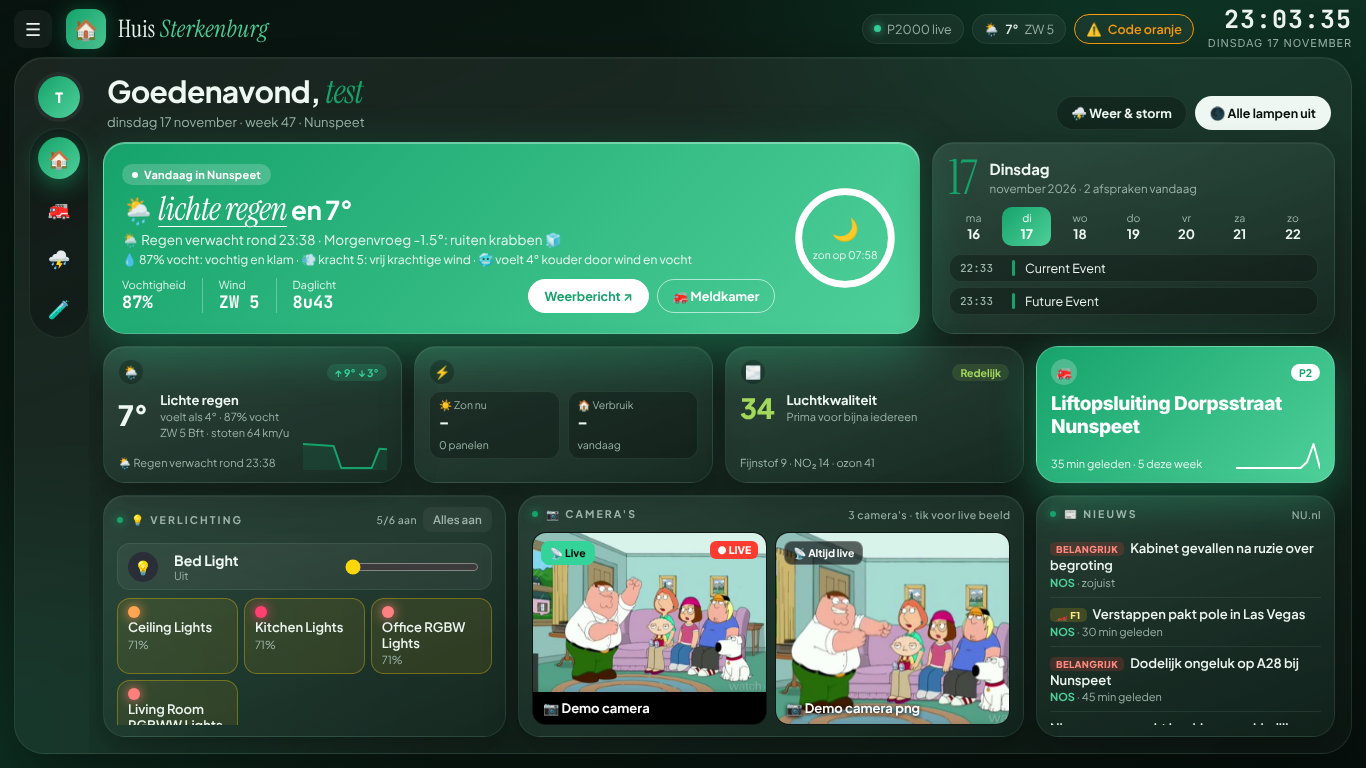
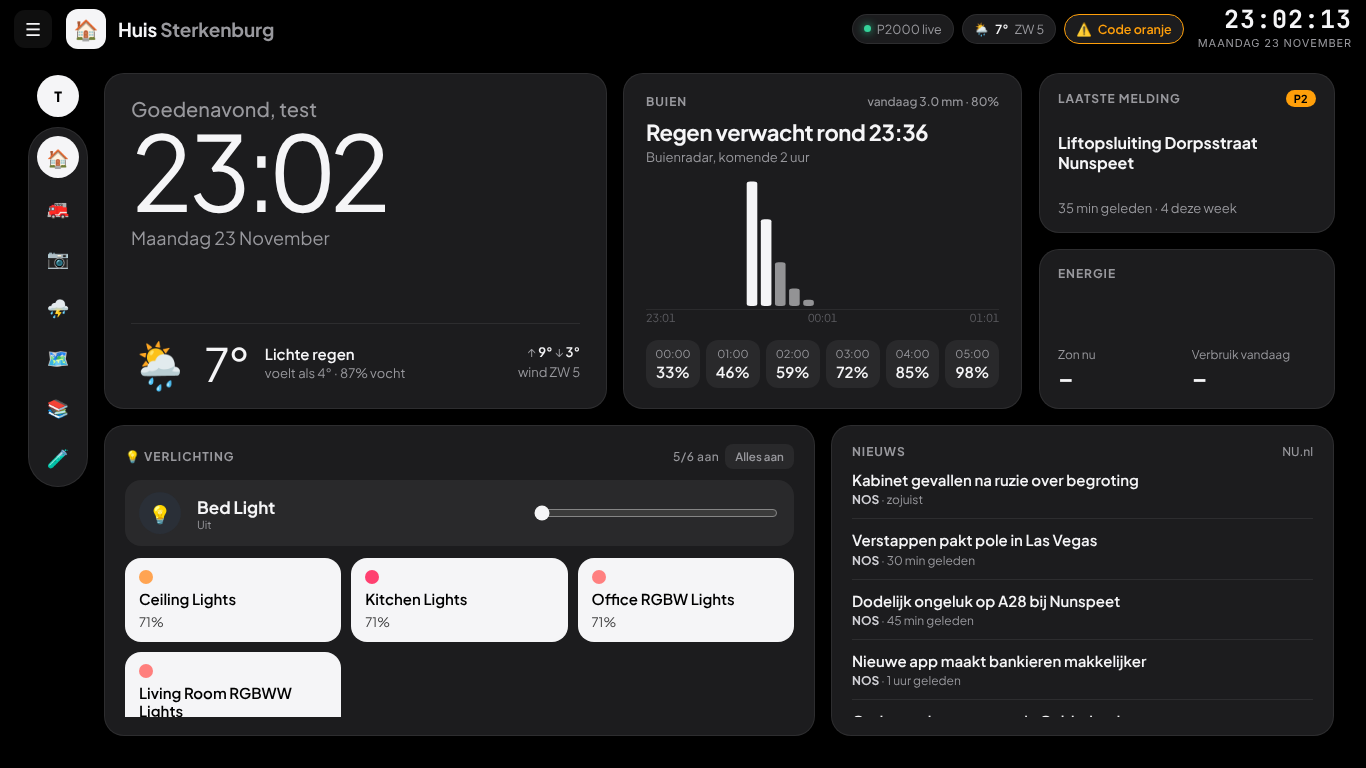
Minimalistisch hoofdscherm in grafiet, met camera's op eigen tabblad
- Rustige grijstinten met grafiet/zwart als accent, licht overdag en
  donker 's avonds, zonder kleurverlopen en gloed
- Hoofdscherm met grote klok en weer, buien (buienradar + komende uren),
  laatste melding, energie, grote lampknoppen met rolluik en nieuws
- Camera's naar een eigen tabblad (tot 4 camera's)
- Meldkamer en andere tabbladen in dezelfde rustige stijl

Claude-Session: https://claude.ai/code/session_0195ypcEwPeemUQZa3YdvhVV

diff --git a/meldkamer/config/www/meldkamer/meldkamer-panel.js b/meldkamer/config/www/meldkamer/meldkamer-panel.js
@@ -690,6 +690,119 @@ a{color:inherit}
   .groet .blokjes{margin-left:0}
   .teller{grid-template-columns:repeat(2,1fr)}
 }
+
+/* ===================== Minimalistisch thema ===================== */
+:host{
+  --bg:#000; --tekst:#f5f5f7; --zacht:#98989d; --zwak:#5c5c61; --rand:rgba(255,255,255,.08);
+  --accent:#f5f5f7; --accent2:#d1d1d6; --opaccent:#000;
+  --vlak:rgba(255,255,255,.06); --vlak2:rgba(255,255,255,.06);
+  --kaartbg:#1c1c1e; --kaartschaduw:none; --lijfbg:transparent; --achtergrond:#000;
+  --lege-balk:#2c2c2e; --r:20px;
+}
+:host([thema="licht"]){
+  --bg:#f2f2f7; --tekst:#1d1d1f; --zacht:#6e6e73; --zwak:#aeaeb2; --rand:rgba(0,0,0,.07);
+  --accent:#1d1d1f; --accent2:#3a3a3c; --opaccent:#fff;
+  --vlak:rgba(0,0,0,.045); --vlak2:#f2f2f7;
+  --kaartbg:#fff; --kaartschaduw:0 1px 2px rgba(0,0,0,.04), 0 8px 24px rgba(0,0,0,.04); --lijfbg:transparent; --achtergrond:#f2f2f7;
+  --lege-balk:#e5e5ea;
+}
+:host([storm]){ --accent:#d97706; --accent2:#f5a524; --opaccent:#fff; }
+:host([modus="brand"]){ --accent:#ff3b30; --accent2:#ff6b5e; --opaccent:#fff; }
+:host([modus="politie"]){ --accent:#0a84ff; --accent2:#5ea2ff; --opaccent:#fff; }
+:host([thema="donker"]:not([modus]):not([fel])) .wrap{filter:none}
+.wrap{background:var(--achtergrond)!important}
+.lijf{border:0!important;box-shadow:none!important;backdrop-filter:none!important;background:transparent!important}
+.kaart{backdrop-filter:none!important;border:1px solid var(--rand)!important}
+.kaart h2::before{display:none!important}
+.kaart h2{font-size:12px;letter-spacing:.08em;color:var(--zacht)}
+.logo .bol,.rail .avatar{background:var(--accent)!important;color:var(--opaccent)!important;box-shadow:none!important}
+.logo h1{font-family:"Plus Jakarta Sans",Inter,sans-serif!important;font-weight:700!important;font-size:19px!important;letter-spacing:-.01em!important}
+.logo h1 i{font-style:normal;color:var(--zacht)!important}
+.rail .stok{background:var(--kaartbg)!important;border:1px solid var(--rand)!important}
+.rail button.aan,.pag-knop.aan,.tab.aan,.veld button,.week .vandaag{background:var(--accent)!important;color:var(--opaccent)!important;box-shadow:none!important}
+.week .vandaag b{color:var(--opaccent)!important}
+.chip{background:var(--kaartbg)!important}
+/* kleurkaarten rustig maken */
+:host .hero,:host .hero-kleur,:host .t-accent{background:var(--kaartbg)!important;color:var(--tekst)!important;border-color:var(--rand)!important;box-shadow:var(--kaartschaduw)!important}
+:host .hero h2,:host .hero .geleden,:host .hero .hero-adres,:host .hero .teller small,:host .hero small,:host .hero .route a small,:host .hero .advies span{color:var(--zacht)!important}
+:host .hero .teller div,:host .hero .route a,:host .hero .eenheid,:host .hero .advies,:host .hero .klein-knop,:host .hero .badge.cat{background:var(--vlak)!important;border-color:var(--rand)!important;color:var(--tekst)!important}
+:host .hero .route a.best{border-color:var(--tekst)!important}
+:host .hero-titel{font-family:"Plus Jakarta Sans",Inter,sans-serif!important;font-style:normal!important;font-weight:700!important;text-decoration:none!important;font-size:22px!important;line-height:1.25!important;margin:8px 0 4px!important}
+.kaart:hover{transform:none!important}
+
+/* ===================== Hoofdscherm ===================== */
+.p-dashboard{grid-template-columns:repeat(12,minmax(0,1fr))!important;grid-template-rows:minmax(0,1.08fr) minmax(0,1fr)!important;gap:16px!important;padding:16px 18px 18px 16px!important;overflow:hidden!important}
+.m-klok{grid-column:span 5;display:flex;flex-direction:column;justify-content:space-between;padding:22px 26px!important}
+.m-buien{grid-column:span 4;display:flex;flex-direction:column;padding:20px 22px!important}
+.m-rechts{grid-column:span 3;display:flex;flex-direction:column;gap:16px;min-height:0}
+.m-mini{flex:1;display:flex;flex-direction:column;justify-content:space-between;padding:16px 18px!important;min-height:0}
+.m-licht{grid-column:span 7;display:flex;flex-direction:column;padding:18px 20px!important;min-height:0}
+.m-nieuws{grid-column:span 5;display:flex;flex-direction:column;padding:18px 20px!important;min-height:0}
+.m-groet{font-size:20px;color:var(--zacht);font-weight:500}
+.m-tijd{font-size:104px;font-weight:300;letter-spacing:-.045em;line-height:.95;font-variant-numeric:tabular-nums}
+.m-datum{font-size:18px;color:var(--zacht);text-transform:capitalize;margin-top:6px}
+.m-weer{display:flex;align-items:center;gap:16px;padding-top:16px;border-top:1px solid var(--rand)}
+.m-weer .ic{font-size:46px;line-height:1}
+.m-weer .t{font-size:46px;font-weight:300;letter-spacing:-.03em;line-height:1}
+.m-weer .om{font-size:15px;font-weight:600}
+.m-weer .om small{display:block;font-weight:400;color:var(--zacht);font-size:13px;margin-top:2px}
+.m-weer .r{margin-left:auto;text-align:right;font-size:13px;color:var(--zacht);line-height:1.5}
+.m-weer .r b{color:var(--tekst);font-weight:600}
+.m-kop{font-size:12px;font-weight:700;letter-spacing:.08em;text-transform:uppercase;color:var(--zacht);display:flex;align-items:center;gap:8px}
+.m-kop .r{margin-left:auto;text-transform:none;letter-spacing:0;font-weight:500}
+.m-zin{font-size:22px;font-weight:700;letter-spacing:-.02em;line-height:1.2;margin:10px 0 4px}
+.m-sub{font-size:13px;color:var(--zacht)}
+.m-grafiek{flex:1;min-height:70px;display:flex;flex-direction:column;justify-content:flex-end;margin:12px 0 6px}
+.m-grafiek svg{width:100%;height:100%;min-height:60px;display:block}
+.m-as{display:flex;justify-content:space-between;font-size:11px;color:var(--zwak);font-variant-numeric:tabular-nums}
+.m-uren{display:grid;grid-template-columns:repeat(6,1fr);gap:6px;margin-top:10px}
+.m-uren div{text-align:center;padding:7px 0;border-radius:12px;background:var(--vlak);font-size:11px;color:var(--zacht)}
+.m-uren b{display:block;font-size:15px;color:var(--tekst);font-weight:600;margin-top:2px}
+.m-mini .groot{font-size:26px;font-weight:700;letter-spacing:-.02em;line-height:1.15}
+.m-mini .titel{font-size:16px;font-weight:700;line-height:1.3;overflow:hidden;display:-webkit-box;-webkit-line-clamp:2;-webkit-box-orient:vertical}
+.m-mini .duo{display:grid;grid-template-columns:1fr 1fr;gap:10px}
+.m-mini .duo small{display:block;font-size:12px;color:var(--zacht)}
+.m-mini .duo b{font-size:24px;font-weight:700;letter-spacing:-.02em}
+.m-mini .duo b span{font-size:13px;font-weight:500;color:var(--zacht)}
+.m-mini[data-actie]{cursor:pointer}
+.m-badge{display:inline-block;font-size:11px;font-weight:700;padding:2px 8px;border-radius:999px;background:var(--vlak);color:var(--tekst)}
+.m-badge.p1{background:#ff3b30;color:#fff}
+.m-badge.p2{background:#ff9f0a;color:#000}
+/* lampen groot */
+.m-licht .scroll{overflow:auto}
+.m-licht .hoofdlamp{padding:12px 14px!important;border-radius:16px!important;margin-bottom:12px!important;background:var(--vlak)!important;border:0!important}
+.m-licht .hoofdlamp .bol{width:42px!important;height:42px!important;font-size:18px!important}
+.m-licht .hoofdlamp .n{font-size:17px!important}
+.m-licht .hoofdlamp input{accent-color:var(--accent)!important}
+.m-licht .drie{display:grid;grid-template-columns:repeat(3,minmax(0,1fr));gap:10px!important}
+.m-licht .lamp{min-height:84px!important;padding:12px 14px!important;border-radius:16px!important;background:var(--vlak)!important;border:0!important;gap:6px!important}
+.m-licht .lamp .n{font-size:15px!important}
+.m-licht .lamp .s{font-size:13px!important}
+.m-licht .lamp.aan{background:var(--accent)!important;color:var(--opaccent)!important}
+.m-licht .lamp.aan .s{color:var(--opaccent)!important;opacity:.75}
+.m-licht .lamp .bol{width:14px!important;height:14px!important;box-shadow:none!important}
+.m-licht .hoofdlamp.aan{background:var(--accent)!important;color:var(--opaccent)!important}
+.m-licht .hoofdlamp.aan .s{color:var(--opaccent)!important;opacity:.75}
+.m-licht .luik{padding:10px 14px!important;border-radius:16px!important;background:var(--vlak)!important;border:0!important}
+.m-licht .luik .n{font-size:15px!important}
+.m-licht .luik button{width:52px!important;height:44px!important;border-radius:12px!important;background:var(--kaartbg)!important;font-size:16px}
+.m-licht .sub{margin:14px 0 8px!important}
+/* nieuws */
+.m-nieuws .nieuws{padding:11px 0!important}
+.m-nieuws .nieuws .t{font-size:15px!important;font-weight:600!important;line-height:1.35!important}
+.m-nieuws .nieuws .s{font-size:12px!important}
+.m-nieuws .label{display:none}
+/* camera's-tabblad */
+.p-cams{grid-template-columns:minmax(0,1fr)}
+.p-cams .camgrid{display:grid!important;grid-template-columns:1fr 1fr;grid-auto-rows:minmax(0,1fr);gap:12px;flex:1;min-height:0}
+.p-cams .camgrid > .cam{aspect-ratio:auto;height:100%}
+@media (max-width:1100px){
+  .p-dashboard{grid-template-rows:none!important;overflow:auto!important}
+  .m-klok,.m-buien,.m-rechts,.m-licht,.m-nieuws{grid-column:span 12}
+  .m-tijd{font-size:80px}
+  .p-cams .camgrid{grid-template-columns:1fr;grid-auto-rows:auto}
+  .p-cams .camgrid > .cam{aspect-ratio:16/9;height:auto}
+}
 `;
 
 // ---------- Het paneel ----------
@@ -767,6 +880,7 @@ class HuisPanel extends HTMLElement {
           <nav class="paginas">
             <button class="pag-knop aan" data-actie="pagina" data-pagina="dashboard">🏠 Dashboard</button>
             <button class="pag-knop" data-actie="pagina" data-pagina="meldkamer">🚒 Meldkamer</button>
+            <button class="pag-knop" data-actie="pagina" data-pagina="cams">📷 Camera's</button>
             <button class="pag-knop" data-actie="pagina" data-pagina="weer">⛈ Weer & storm</button>
             <button class="pag-knop" data-actie="pagina" data-pagina="kaart">🗺 Kaart</button>
             <button class="pag-knop" data-actie="pagina" data-pagina="bibliotheek">📚 Bibliotheek</button>
@@ -782,6 +896,7 @@ class HuisPanel extends HTMLElement {
             <div class="stok">
               <button class="aan" data-actie="pagina" data-pagina="dashboard">🏠<span class="tip">Dashboard</span></button>
               <button data-actie="pagina" data-pagina="meldkamer">🚒<span class="tip">Meldkamer</span></button>
+              <button data-actie="pagina" data-pagina="cams">📷<span class="tip">Camera's</span></button>
               <button data-actie="pagina" data-pagina="weer">⛈<span class="tip">Weer & storm</span></button>
               <button data-actie="pagina" data-pagina="kaart">🗺<span class="tip">Kaart</span></button>
               <button data-actie="pagina" data-pagina="bibliotheek">📚<span class="tip">Bibliotheek</span></button>
@@ -810,16 +925,18 @@ class HuisPanel extends HTMLElement {
         </main>
 
         <main class="raster pagina p-dashboard" id="p-dashboard">
-          <div class="d-kop" id="d-kop"></div>
-          <div class="kaart d-hero hero-kleur" id="d-hero"></div>
-          <div class="kaart d-datum" id="d-datum"></div>
-          <div class="kaart tegel" id="t-weer"></div>
-          <div class="kaart tegel" id="t-energie"></div>
-          <div class="kaart tegel" id="t-lucht"></div>
-          <div class="kaart tegel t-accent" id="t-melding" data-actie="pagina" data-pagina="meldkamer"></div>
-          <div class="kaart d-licht" id="bediening"></div>
-          <div class="kaart d-cam"><h2>📷 Camera's <span class="r" id="cam-info"></span></h2><div class="camgrid" id="camgrid"></div></div>
-          <div class="kaart d-nieuws"><h2>📰 Nieuws <span class="r">NU.nl</span></h2><div class="scroll" id="nieuws"></div></div>
+          <div class="kaart m-klok" id="m-klok"></div>
+          <div class="kaart m-buien" id="m-buien"></div>
+          <div class="m-rechts">
+            <div class="kaart m-mini" id="m-melding" data-actie="pagina" data-pagina="meldkamer"></div>
+            <div class="kaart m-mini" id="m-energie"></div>
+          </div>
+          <div class="kaart m-licht" id="bediening"></div>
+          <div class="kaart m-nieuws"><div class="m-kop">Nieuws <span class="r">NU.nl</span></div><div class="scroll" id="nieuws"></div></div>
+        </main>
+
+        <main class="raster pagina p-cams" id="p-cams">
+          <div class="kaart groei"><h2>📷 Camera's <span class="r" id="cam-info"></span></h2><div class="camgrid" id="camgrid"></div></div>
         </main>
 
 
@@ -1044,6 +1161,8 @@ class HuisPanel extends HTMLElement {
     const af = r.getElementById("aftel");
     if (af && this._alarmEind) af.textContent = `Sluit vanzelf over ${Math.max(0, Math.ceil((this._alarmEind - Date.now()) / 1000))} s`;
     this._tekenNacht(nu);
+    const mt = r.getElementById("m-tijd");
+    if (mt) mt.textContent = `${pad(nu.getHours())}:${pad(nu.getMinutes())}`;
     const wt = r.getElementById("w-tijd");
     if (wt) wt.textContent = `${pad(nu.getHours())}:${pad(nu.getMinutes())}`;
     const stil = Date.now() - (this._actief || 0);
@@ -1323,47 +1442,24 @@ class HuisPanel extends HTMLElement {
     const sig = this._sig("sensor.meldkamer_weer", "sensor.meldkamer_buienradar", "sun.sun") + new Date().getMinutes();
     if (!this._veranderd("groet", sig)) return;
     const r = this.shadowRoot;
+    const el = r.getElementById("m-klok");
+    if (!el) return;
     const nu = new Date();
     const naam = (this._hass.user?.name || "").split(" ")[0];
-    r.getElementById("d-kop").innerHTML = `
-      <div><h3>${this._groetWoord()}${naam ? `, <i>${esc(naam)}</i>` : ""}</h3>
-        <p>${nu.toLocaleDateString("nl-NL", { weekday: "long", day: "numeric", month: "long" })} · week ${this._weekNr(nu)} · Nunspeet</p></div>
-      <div class="pillen">
-        <button class="pil" data-actie="pagina" data-pagina="weer">⛈ Weer & storm</button>
-        <button class="pil donker" data-actie="alle" data-dienst="turn_off">🌑 Alle lampen uit</button>
-      </div>`;
     const w = this._weerData();
     const n = w.nu || {};
     const d0 = (w.dagen || [])[0] || {};
-    const regen = this._regenZin();
-    const krab = this._krabben();
-    const zon = this._zonVoortgang();
-    const dl = this._daglicht(d0);
-    let ring = "";
-    if (zon) {
-      const omtrek = 2 * Math.PI * 62;
-      const hoek = zon.f * 2 * Math.PI - Math.PI / 2;
-      const zx = 75 + Math.cos(hoek) * 62 - 11, zy = 75 + Math.sin(hoek) * 62 - 11;
-      const rest = zon.dag ? zon.onder - Date.now() : 0;
-      ring = `<div class="ring"><svg viewBox="0 0 150 150"><circle cx="75" cy="75" r="62" fill="none" stroke="rgba(255,255,255,.25)" stroke-width="9"/>
-          <circle cx="75" cy="75" r="62" fill="none" stroke="#fff" stroke-width="9" stroke-linecap="round" stroke-dasharray="${omtrek}" stroke-dashoffset="${omtrek * (1 - zon.f)}"/></svg>
-        ${zon.dag ? `<div class="zonnetje" style="left:${((zx / 150) * 100).toFixed(1)}%;top:${((zy / 150) * 100).toFixed(1)}%">☀</div>` : ""}
-        <div class="midden"><div><b>${zon.dag ? Math.round(zon.f * 100) + "%" : "🌙"}</b><small>${zon.dag ? `zon onder over<br>${Math.floor(rest / 3600000)}u ${pad(Math.floor((rest % 3600000) / 60000))}m` : `zon op ${klokTijd(d0.zonop)}`}</small></div></div></div>`;
-    }
-    r.getElementById("d-hero").innerHTML = n.temperature_2m == null
-      ? `<div><span class="label-pil">Vandaag in Nunspeet</span><div class="hero-groot">Het weer wordt <i>geladen</i>…</div></div>`
-      : `<div>
-        <span class="label-pil">Vandaag in Nunspeet</span>
-        <div class="hero-groot">${weerIcoon(n.weather_code, n.is_day)} <i>${weerTekst(n.weather_code).toLowerCase()}</i> en ${Math.round(n.temperature_2m)}°</div>
-        <div class="zacht" style="font-size:13.5px">${regen.icoon} ${esc(regen.tekst)}${krab ? ` · ${esc(krab.tekst)}` : ""}</div>
-        <div class="hero-uitleg">${this._weerUitleg(n)}</div>
-        <div class="hero-onder"><div class="hero-stats">
-          <div>Vochtigheid<b>${Math.round(n.relative_humidity_2m ?? 0)}%</b></div>
-          <div>Wind<b>${windRichting(n.wind_direction_10m)} ${beaufort(n.wind_speed_10m)}</b></div>
-          <div>Daglicht<b>${dl ? Math.floor(dl / 3600) + "u" + pad(Math.round((dl % 3600) / 60)) : "–"}</b></div>
-        </div>
-        <div class="hero-knoppen"><button data-actie="pagina" data-pagina="weer">Weerbericht ↗</button><button data-actie="pagina" data-pagina="meldkamer">🚒 Meldkamer</button></div></div>
-      </div>${ring}`;
+    el.innerHTML = `
+      <div><div class="m-groet">${this._groetWoord()}${naam ? ", " + esc(naam) : ""}</div>
+        <div class="m-tijd" id="m-tijd">${pad(nu.getHours())}:${pad(nu.getMinutes())}</div>
+        <div class="m-datum">${nu.toLocaleDateString("nl-NL", { weekday: "long", day: "numeric", month: "long" })}</div></div>
+      ${n.temperature_2m == null ? `<div class="m-weer"><span class="m-sub">Het weer wordt geladen…</span></div>` : `
+      <div class="m-weer">
+        <span class="ic">${weerIcoon(n.weather_code, n.is_day)}</span>
+        <span class="t">${Math.round(n.temperature_2m)}°</span>
+        <div class="om">${weerTekst(n.weather_code)}<small>voelt als ${Math.round(n.apparent_temperature)}° · ${Math.round(n.relative_humidity_2m ?? 0)}% vocht</small></div>
+        <div class="r">↑ <b>${Math.round(d0.max ?? 0)}°</b> ↓ <b>${Math.round(d0.min ?? 0)}°</b><br>wind ${windRichting(n.wind_direction_10m)} ${beaufort(n.wind_speed_10m)}</div>
+      </div>`}`;
   }
 
   _daglicht(d0) {
@@ -1530,7 +1626,7 @@ class HuisPanel extends HTMLElement {
       const groot = cams.filter((c) => live.includes(c.entity_id));
       const klein = cams.filter((c) => !live.includes(c.entity_id));
       // Zonder live camera's: de eerste twee groot tonen
-      const grootLijst = [...groot, ...klein].slice(0, 2);
+      const grootLijst = [...groot, ...klein].slice(0, 4);
       grid.classList.toggle("een", grootLijst.length === 1);
       grid.innerHTML = grootLijst.map((c) => this._camVak(c, live.includes(c.entity_id))).join("");
       grid.querySelectorAll(".cam").forEach(async (vak) => {
@@ -1546,7 +1642,7 @@ class HuisPanel extends HTMLElement {
     });
   }
   _ververstCams() {
-    if (this._pagina === "dashboard") this._tekenCams();
+    if (this._pagina === "cams") this._tekenCams();
     if (this._pagina === "woonkamer") this._tekenWkCams();
   }
   _tekenCamInfo() {
@@ -1571,50 +1667,59 @@ class HuisPanel extends HTMLElement {
 
   _tekenEnergie() {
     const { net, zonTotaal, panelen, naarW } = this._vermogenSensoren();
-    const w = this._weerData();
     const sig = [net, zonTotaal, ...panelen].map((s) => s && s.state).join() + JSON.stringify(this._energie) +
-      this._sig("sensor.meldkamer_weer", "sensor.meldkamer_laatste_melding", "sensor.meldkamer_luchtkwaliteit", "sensor.meldkamer_buienradar");
+      this._sig("sensor.meldkamer_weer", "sensor.meldkamer_laatste_melding", "sensor.meldkamer_buienradar") + new Date().getMinutes();
     if (!this._veranderd("energie", sig)) return;
     const r = this.shadowRoot;
-    const fmt = (x) => (Math.abs(x) >= 1000 ? (x / 1000).toFixed(1) + " kW" : Math.round(x) + " W");
-    const e = this._energie || {};
-    const n = w.nu || {};
-    const d0 = (w.dagen || [])[0] || {};
-    // Weer buiten
-    const temps = (w.uren || []).filter((u) => new Date(u.tijd).getTime() >= Date.now() - 3600000).slice(0, 12).map((u) => u.temp);
+    if (!r.getElementById("m-buien")) return;
+    const fmt = (x) => (Math.abs(x) >= 1000 ? `${(x / 1000).toFixed(1)}<span> kW</span>` : `${Math.round(x)}<span> W</span>`);
+    // ---- Buien ----
+    const w = this._weerData();
+    const b = this._a("sensor.meldkamer_buienradar");
     const regen = this._regenZin();
-    r.getElementById("t-weer").innerHTML = `
-      <div class="boven"><span class="ic">${weerIcoon(n.weather_code, n.is_day)}</span><span class="chg">↑ ${Math.round(d0.max ?? 0)}° ↓ ${Math.round(d0.min ?? 0)}°</span></div>
-      <div class="rij-w"><div class="waarde">${n.temperature_2m != null ? Math.round(n.temperature_2m) + "°" : "–"}</div>
-        <div class="w-info"><b>${weerTekst(n.weather_code)}</b><span>voelt als ${n.apparent_temperature != null ? Math.round(n.apparent_temperature) + "°" : "–"} · ${Math.round(n.relative_humidity_2m ?? 0)}% vocht</span>
-        <span>${windRichting(n.wind_direction_10m)} ${beaufort(n.wind_speed_10m)} Bft · stoten ${Math.round(n.wind_gusts_10m ?? 0)} km/u</span></div></div>
-      <div class="onder"><div class="sub">${regen.icoon} ${esc(regen.tekst)}</div>${this._spark(temps)}</div>`;
-    // Energie: zon + verbruik samen
+    const d0 = (w.dagen || [])[0] || {};
+    let grafiek = `<div class="m-sub" style="margin:auto 0">Buienradar wordt geladen…</div>`;
+    if (b.reeks?.length) {
+      const max = Math.max(1, ...b.reeks.map((x) => x.mm));
+      const bw = 100 / b.reeks.length;
+      const droog = b.reeks.every((x) => x.mm < 0.1);
+      const balken = b.reeks
+        .map((x, i) => {
+          const h = x.mm > 0 ? Math.max(2, (Math.sqrt(x.mm) / Math.sqrt(max)) * 56) : 0;
+          return `<rect x="${(i * bw + 0.5).toFixed(2)}" y="${(58 - h).toFixed(2)}" width="${(bw - 1).toFixed(2)}" height="${h.toFixed(2)}" rx="1" fill="var(--accent)" opacity="${x.mm > 2 ? 1 : 0.55}"/>`;
+        })
+        .join("");
+      grafiek = `<div class="m-grafiek"><svg viewBox="0 0 100 60" preserveAspectRatio="none">
+          <line x1="0" x2="100" y1="59.5" y2="59.5" stroke="var(--rand)" stroke-width="1" vector-effect="non-scaling-stroke"/>
+          ${droog ? `<text x="50" y="34" text-anchor="middle" font-size="7" fill="var(--zwak)">geen regen in de komende 2 uur</text>` : balken}</svg>
+        <div class="m-as"><span>${esc(b.reeks[0].tijd)}</span><span>${esc(b.reeks[Math.floor(b.reeks.length / 2)].tijd)}</span><span>${esc(b.reeks[b.reeks.length - 1].tijd)}</span></div></div>`;
+    }
+    const uren = (w.uren || []).filter((u) => new Date(u.tijd).getTime() >= Date.now() - 1800000).slice(1, 7);
+    r.getElementById("m-buien").innerHTML = `
+      <div class="m-kop">Buien <span class="r">vandaag ${rond(d0.regen, 1)} mm · ${d0.regenkans ?? 0}%</span></div>
+      <div class="m-zin">${esc(regen.tekst)}</div>
+      <div class="m-sub">${(b.nu ?? 0) >= 0.1 ? `Nu ${rond(b.nu, 1)} mm per uur` : "Buienradar, komende 2 uur"}</div>
+      ${grafiek}
+      <div class="m-uren">${uren.map((u) => `<div>${pad(new Date(u.tijd).getHours())}:00<b>${u.regenkans ?? 0}%</b></div>`).join("")}</div>`;
+    // ---- Laatste melding ----
+    const d = this._p2000();
+    const m = (d.meldingen || []).find((x) => !x.proef && /nunspeet|elspeet|hulshorst|vierhouten/i.test((x.titel || "") + " " + (x.adres || "")));
+    r.getElementById("m-melding").innerHTML = m
+      ? `<div class="m-kop">Laatste melding <span class="r"><span class="m-badge ${m.prio ? "p" + m.prio : ""}">${m.prio ? "P" + m.prio : "–"}</span></span></div>
+         <div class="titel">${esc(m.kort || m.titel)}</div>
+         <div class="m-sub"><span data-sinds="${esc(m.tijd)}">${tijdGeleden(m.tijd)}</span> · ${d.week ?? 0} deze week</div>`
+      : `<div class="m-kop">Laatste melding</div><div class="titel">Geen uitrukken</div><div class="m-sub">Brandweer Nunspeet</div>`;
+    // ---- Energie ----
+    const e = this._energie || {};
     const zonW = zonTotaal ? naarW(zonTotaal) : panelen.reduce((t, s) => t + naarW(s), 0);
     const verbruik = e.stroom != null ? e.stroom + (e.zon || 0) - (e.terug || 0) : null;
     const netW = net ? naarW(net) : null;
-    r.getElementById("t-energie").innerHTML = `
-      <div class="boven"><span class="ic">⚡</span>${netW != null ? `<span class="chg" style="${netW > 0 ? "background:rgba(239,91,57,.14);color:#e0532f" : ""}">${netW < 0 ? "terug " : "van net "}${fmt(Math.abs(netW))}</span>` : ""}</div>
-      <div class="e-duo">
-        <div><small>☀ Zon nu</small><b>${zonTotaal || panelen.length ? fmt(zonW) : "–"}</b><em>${e.zon != null ? e.zon.toFixed(1) + " kWh vandaag" : panelen.length + " panelen"}</em></div>
-        <div><small>🏠 Verbruik</small><b>${verbruik != null ? verbruik.toFixed(1) + " kWh" : "–"}</b><em>${e.gas != null ? "gas " + e.gas.toFixed(2) + " m³" : "vandaag"}</em></div>
+    r.getElementById("m-energie").innerHTML = `
+      <div class="m-kop">Energie <span class="r">${netW != null ? (netW < 0 ? "terug " : "net ") + fmt(Math.abs(netW)).replace(/<[^>]+>/g, "") : ""}</span></div>
+      <div class="duo">
+        <div><small>Zon nu</small><b>${zonTotaal || panelen.length ? fmt(zonW) : "–"}</b></div>
+        <div><small>Verbruik vandaag</small><b>${verbruik != null ? verbruik.toFixed(1) + "<span> kWh</span>" : "–"}</b></div>
       </div>`;
-    // Luchtkwaliteit
-    const l = this._s("sensor.meldkamer_luchtkwaliteit");
-    const aqi = l ? parseFloat(l.state) : NaN;
-    const [, label, kleur, advies] = isNaN(aqi) ? [0, "Laden…", "#888", ""] : AQI.find(([g]) => aqi < g);
-    r.getElementById("t-lucht").innerHTML = `
-      <div class="boven"><span class="ic">🌫</span><span class="chg" style="background:${kleur}22;color:${kleur}">${label}</span></div>
-      <div class="rij-w"><div class="waarde" style="color:${kleur}">${isNaN(aqi) ? "–" : Math.round(aqi)}</div>
-        <div class="w-info"><b>Luchtkwaliteit</b><span>${esc(advies.split(".")[0])}</span></div></div>
-      <div class="onder"><div class="sub">Fijnstof ${rond(l?.attributes?.pm2_5, 0)} · NO₂ ${rond(l?.attributes?.nitrogen_dioxide, 0)} · ozon ${rond(l?.attributes?.ozone, 0)}</div></div>`;
-    // Laatste melding Nunspeet / Elspeet
-    const d = this._p2000();
-    const m = (d.meldingen || []).find((x) => !x.proef && /nunspeet|elspeet|hulshorst|vierhouten/i.test((x.titel || "") + " " + (x.adres || "")));
-    r.getElementById("t-melding").innerHTML = `
-      <div class="boven"><span class="ic">🚒</span><span class="chg">${m ? (m.prio ? "P" + m.prio : "melding") : "rustig"}</span></div>
-      <div class="waarde">${m ? esc(m.kort || m.titel) : "Geen uitrukken"}</div>
-      <div class="onder"><div><div class="sub">${m ? `<span data-sinds="${esc(m.tijd)}">${tijdGeleden(m.tijd)}</span> · ${d.week ?? 0} deze week` : "Laatste melding Nunspeet"}</div></div>${this._spark((d.per_dag || []).slice(-14), "#fff", false)}</div>`;
   }
 
   async _laadEnergie() {
@@ -1731,6 +1836,7 @@ class HuisPanel extends HTMLElement {
     );
     if (afval && afval.dagen > 2 && items.length < 2) items.push(`<div class="afspraak-kaart"><span class="streep" style="background:var(--goed)"></span><span>${afval.icoon}</span><span>${esc(afval.soort)} · ${afval.wanneer.toLowerCase()}</span></div>`);
     const vandaag = this._agenda.filter((e) => this._evDag(e) === "Vandaag").length;
+    if (!this.shadowRoot.getElementById("d-datum")) return;
     this.shadowRoot.getElementById("d-datum").innerHTML = `
       <div class="dag-kop"><span class="nr">${pad(nu.getDate())}</span><div><b style="text-transform:capitalize">${nu.toLocaleDateString("nl-NL", { weekday: "long" })}</b>
         <small>${nu.toLocaleDateString("nl-NL", { month: "long", year: "numeric" })} · ${vandaag} ${vandaag === 1 ? "afspraak" : "afspraken"} vandaag</small></div></div>
@@ -1858,7 +1964,7 @@ class HuisPanel extends HTMLElement {
 
   _tekenNieuws() {
     if (!this._veranderd("nieuws", this._sig("sensor.meldkamer_nieuws"))) return;
-    const items = (this._a("sensor.meldkamer_nieuws").items || []).slice(0, 10);
+    const items = (this._a("sensor.meldkamer_nieuws").items || []).slice(0, 5);
     this.shadowRoot.getElementById("nieuws").innerHTML = items.length
       ? items
           .map((n) => `<a class="nieuws" href="${esc(n.link)}" target="_blank" rel="noopener"><div class="t">${n.soort === "belangrijk" ? '<span class="label belangrijk">BELANGRIJK</span>' : n.soort === "f1" ? '<span class="label f1">🏎 F1</span>' : ""}${esc(n.titel)}</div><div class="s"><span class="bron">${esc(n.bron)}</span> · <span data-sinds="${esc(n.tijd)}">${tijdGeleden(n.tijd)}</span></div></a>`)
@@ -2453,7 +2559,7 @@ class HuisPanel extends HTMLElement {
   _toonPagina(p) {
     this._pagina = p;
     const r = this.shadowRoot;
-    ["meldkamer", "dashboard", "woonkamer", "weer", "test", "kaart", "bibliotheek"].forEach((n) => r.getElementById("p-" + n)?.classList.toggle("aan", n === p));
+    ["meldkamer", "dashboard", "woonkamer", "weer", "test", "kaart", "bibliotheek", "cams"].forEach((n) => r.getElementById("p-" + n)?.classList.toggle("aan", n === p));
     if (p === "test") {
       this._vulSpeakers();
       try {
@@ -2470,7 +2576,7 @@ class HuisPanel extends HTMLElement {
       void pag.offsetWidth;
       pag.classList.add("animeer");
     }
-    if (p === "dashboard" && this._hass) this._tekenCams();
+    if (p === "cams" && this._hass) this._tekenCams();
     if (p === "woonkamer" && this._hass) this._handtekening.woonkamer = null;
     if (p === "weer") this._toonWeerTab();
     if (p === "kaart") {
